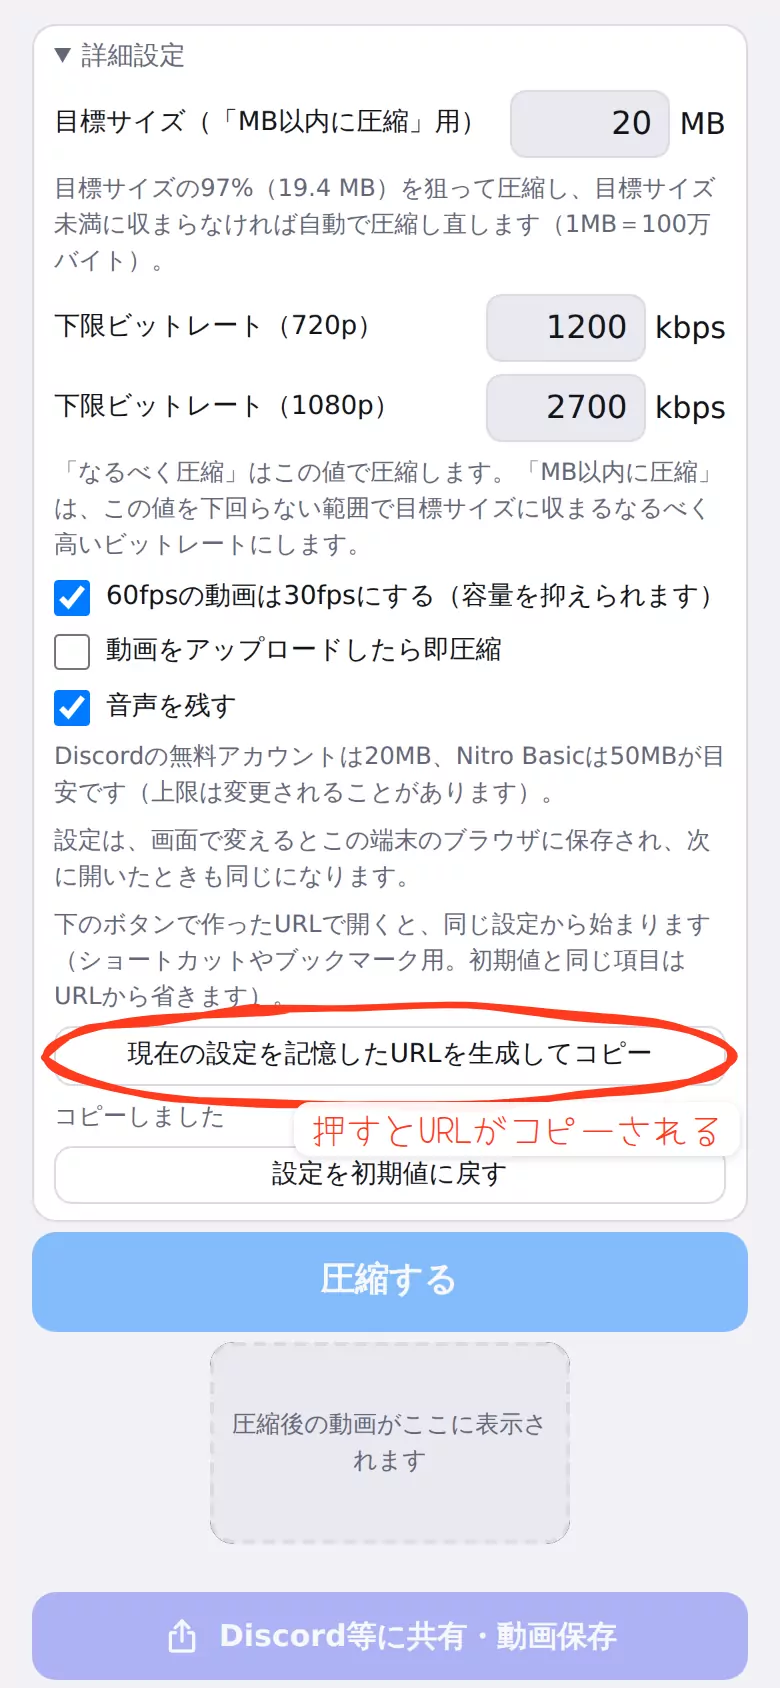
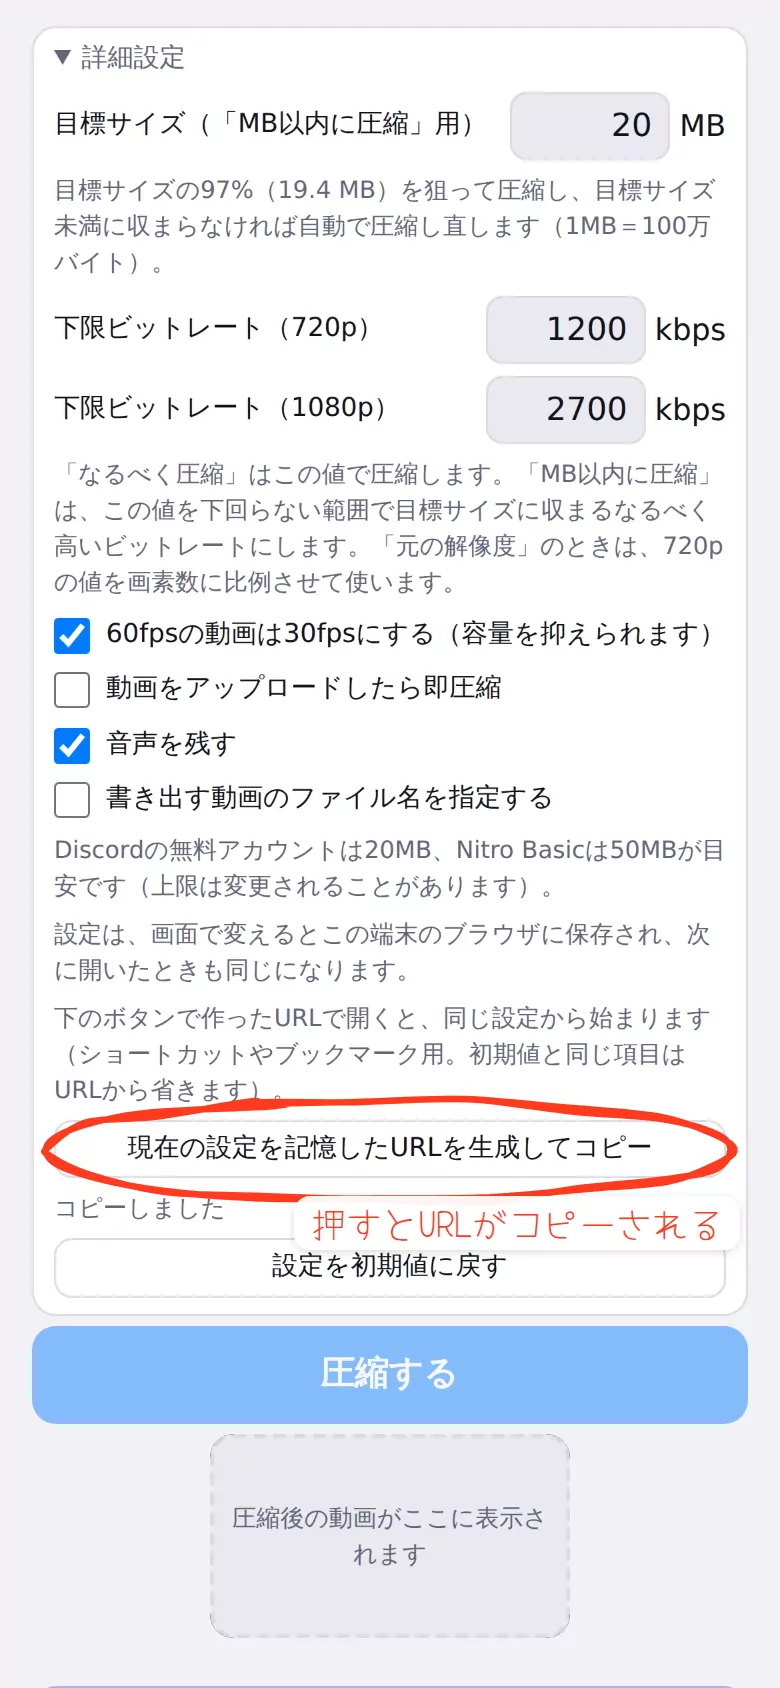
docs: ショートカットのページの「設定を指定して開く」の画像を、今の詳細設定の画面に撮り直す
Claude-Session: https://claude.ai/code/session_01Kjx2uZRnB9w1XNEyRL87P8

diff --git a/public/sw.js b/public/sw.js
@@ -8,7 +8,7 @@
  */
 'use strict';
 
-var CACHE = 'video-compressor-under20mb-v76';
+var CACHE = 'video-compressor-under20mb-v77';
 var NETWORK_TIMEOUT_MS = 3000;   // ネット優先のとき、ネットの応答をこれだけ待ってからキャッシュを使う
 
 // Cloudflare Pages のプレビュー（<ブランチ名>.<プロジェクト名>.pages.dev）と手元の確認環境だけネット優先にする
